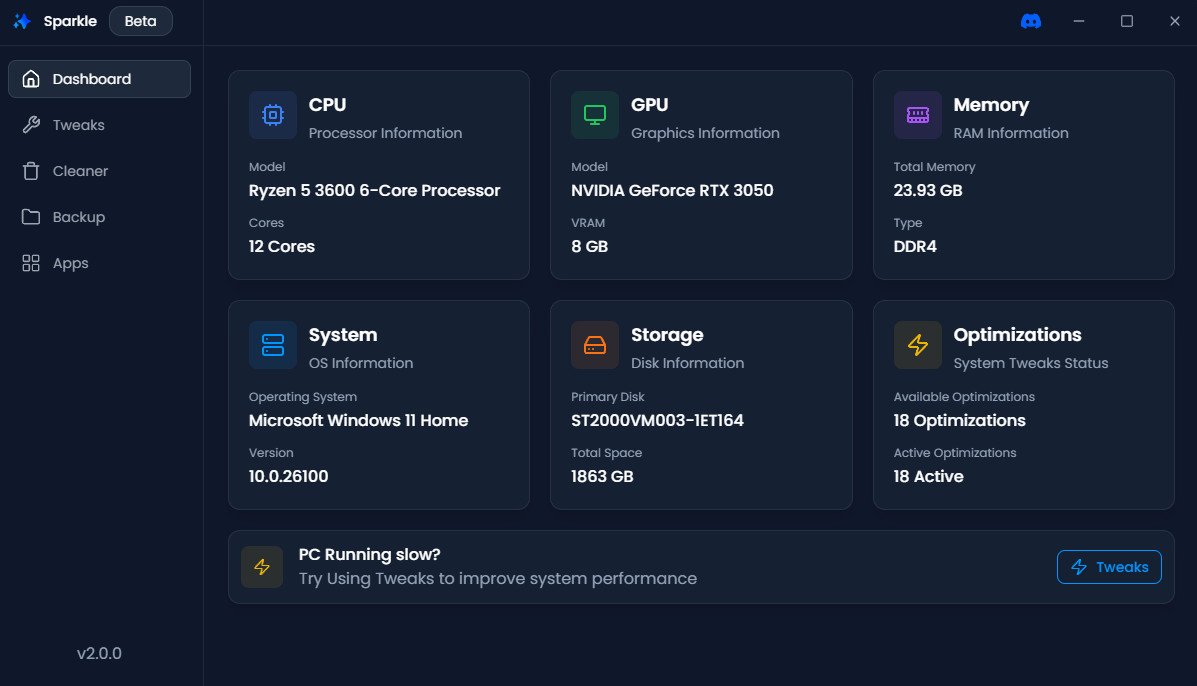
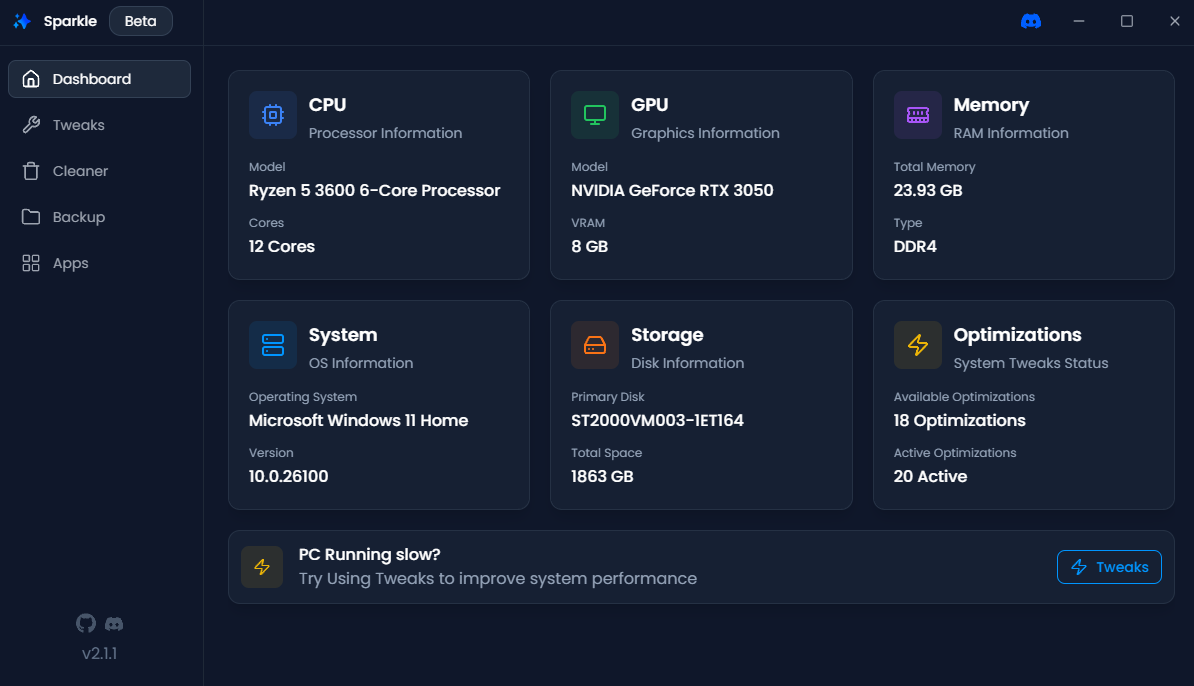
💄2.1.1
- Updated Card Styles
- Fixed Scrolling bug
- Changed nav icons color

diff --git a/src/renderer/src/pages/Tweaks.jsx b/src/renderer/src/pages/Tweaks.jsx
@@ -210,7 +210,7 @@ function Tweaks() {
           <div className="flex justify-end gap-3">
             <Button variant="ghost" onClick={() => setIsModalOpen(false)}>
               Cancel
-            </Button>{' '}
+            </Button>
             <Button
               onClick={async () => {
                 const index = tweaks.indexOf(selectedTweak)
@@ -265,7 +265,7 @@ function Tweaks() {
         </div>
       </Modal>
 
-      <div className="max-w-[1800px] mx-auto overflow-auto">
+      <div className="max-w-[1800px] mx-auto ">
         <div className="mb-4">
           <div className="space-y-4">
             <div className="flex items-center gap-3 bg-slate-800/50 border border-slate-700/50 rounded-xl px-4 backdrop-blur-sm">
@@ -304,64 +304,68 @@ function Tweaks() {
               return (
                 <div
                   key={originalIndex}
-                  className="group bg-slate-800/50 backdrop-blur-sm rounded-xl border border-slate-700/50 shadow-lg hover:shadow-xl hover:border-slate-600/50 transition-all duration-300 overflow-hidden"
+                  className="group bg-slate-800/50 backdrop-blur-sm rounded-xl border border-slate-700/50 shadow-lg hover:shadow-xl hover:border-slate-600/50 transition-all duration-300 overflow-hidde h-52 "
                 >
                   <div className="p-5 flex flex-col h-[260px]">
-                    {tweak.category && (
-                      <div className="flex items-center gap-2 mb-2 flex-wrap">
-                        {(Array.isArray(tweak.category) ? tweak.category : [tweak.category]).map(
-                          (cat) => (
-                            <Tooltip
-                              key={cat}
-                              content={`${cat} Optimization`}
-                              delay={0.3}
-                              side="right"
-                            >
-                              <div className="p-1.5 bg-slate-700/50 rounded-lg hover:bg-slate-700/80 transition-colors">
-                                {categoryIcons[cat] || categoryIcons['General']}
-                              </div>
-                            </Tooltip>
-                          )
-                        )}
-                      </div>
-                    )}
                     <div className="flex items-center justify-between mb-3">
-                      <div className="flex items-center gap-2 flex-col">
-                        <h2 className="font-semibold text-white text-base">{tweak.title}</h2>
-                      </div>
-
-                      {tweak.reversible == null || tweak.reversible == true ? (
-                        <label className="relative inline-flex items-center cursor-pointer flex-shrink-0">
-                          <input
-                            type="checkbox"
-                            className="sr-only peer"
-                            checked={toggleStates[tweak.name] || false}
-                            onChange={() => handleToggle(originalIndex)}
-                          />
-                          <div className="w-11 h-6 bg-slate-700 peer-focus:outline-none rounded-full peer peer-checked:after:translate-x-full peer-checked:after:border-white after:content-[''] after:absolute after:top-[2px] after:left-[2px] after:bg-white after:border-slate-600 after:border after:rounded-full after:h-5 after:w-5 after:transition-all peer-checked:bg-sparkle-primary"></div>
-                        </label>
-                      ) : (
-                        <div>
-                          <Button
-                            onClick={() => handleToggle(originalIndex)}
-                            disabled={toggleStates[tweak.name] || false}
-                          >
-                            {toggleStates[tweak.name] ? 'Applied' : 'Apply'}
-                          </Button>
+                      {tweak.category && (
+                        <div className="flex items-center gap-2 flex-wrap">
+                          <>
+                            {tweak.warning && (
+                              <Tooltip content={tweak.warning} delay={0.3} side="right">
+                                <div className="p-1.5 bg-red-900/50 rounded-lg hover:bg-red-900/80 transition-colors">
+                                  <AlertTriangle className="w-4 h-4 text-red-400" />
+                                </div>
+                              </Tooltip>
+                            )}
+                            {(Array.isArray(tweak.category)
+                              ? tweak.category
+                              : [tweak.category]
+                            ).map((cat) => (
+                              <Tooltip
+                                key={cat}
+                                content={`${cat} Optimization`}
+                                delay={0.3}
+                                side="right"
+                              >
+                                <div className="p-1.5 bg-slate-700/50 rounded-lg hover:bg-slate-700/80 transition-colors">
+                                  {categoryIcons[cat] || categoryIcons['General']}
+                                </div>
+                              </Tooltip>
+                            ))}
+                          </>
                         </div>
                       )}
+                      <div className="flex items-center m-0">
+                        {tweak.reversible == null || tweak.reversible == true ? (
+                          <label className="relative inline-flex items-center cursor-pointer flex-shrink-0">
+                            <input
+                              type="checkbox"
+                              className="sr-only peer"
+                              checked={toggleStates[tweak.name] || false}
+                              onChange={() => handleToggle(originalIndex)}
+                            />
+                            <div className="w-11 h-6 bg-slate-700 peer-focus:outline-none rounded-full peer peer-checked:after:translate-x-full peer-checked:after:border-white after:content-[''] after:absolute after:top-[2px] after:left-[2px] after:bg-white after:border-slate-600 after:border after:rounded-full after:h-5 after:w-5 after:transition-all peer-checked:bg-sparkle-primary"></div>
+                          </label>
+                        ) : (
+                          <div>
+                            <Button
+                              onClick={() => handleToggle(originalIndex)}
+                              disabled={toggleStates[tweak.name] || false}
+                            >
+                              {toggleStates[tweak.name] ? 'Applied' : 'Apply'}
+                            </Button>
+                          </div>
+                        )}
+                      </div>
+                    </div>
+                    <div className="flex items-start mb-3">
+                      <h2 className="font-semibold text-white text-base">{tweak.title}</h2>
                     </div>
                     <div className="flex flex-col flex-1 overflow-hidden">
                       <p className="text-slate-400 text-sm flex-1 overflow-y-auto custom-scrollbar pr-1">
                         {tweak.description}
                       </p>
-
-                      {tweak.warning && (
-                        <div className="mt-2 py-1.5 px-2 bg-red-950/30 border border-red-900/30 rounded text-red-400 text-xs flex items-center gap-1.5">
-                          <AlertTriangle size={12} />
-                          {tweak.warning}
-                        </div>
-                      )}
                     </div>
                   </div>
                 </div>

diff --git a/src/renderer/src/components/Nav.jsx b/src/renderer/src/components/Nav.jsx
@@ -71,13 +71,13 @@ function Nav() {
       )}
       <div className="flex items-center justify-center gap-2 mt-4 mb-2">
         <a href="https://github.com/parcoil/sparkle" target="_blank">
-          <GithubIcon className="w-5 fill-white" />
+          <GithubIcon className="w-5 fill-slate-600" />
         </a>
         <a href="https://discord.com/invite/En5YJYWj3Z" target="_blank">
-          <DiscordIcon className="w-5 fill-white" />
+          <DiscordIcon className="w-5 fill-slate-600" />
         </a>
       </div>
-      <p className="text-slate-400 text-center">v{info.version}</p>
+      <p className="text-slate-500 text-center">v{info.version}</p>
     </nav>
   )
 }

diff --git a/src/renderer/src/App.jsx b/src/renderer/src/App.jsx
@@ -17,7 +17,7 @@ function App() {
   const [loading, setLoading] = useState(true)
 
   return (
-    <div className="flex flex-col h-screen bg-slate-900 text-white ">
+    <div className="flex flex-col h-screen bg-slate-900 text-white overflow-hidden">
       <TitleBar />
       <div className="flex flex-1 pt-[50px] relative">
         <AnimatePresence>
@@ -40,7 +40,7 @@ function App() {
         <>
           <Nav />
 
-          <main className="flex-1 ml-52 p-6">
+          <main className="flex-1 ml-52 p-6 ">
             <AnimatePresence mode="wait">
               <motion.div
                 key={location.pathname}

diff --git a/src/renderer/src/pages/Home.jsx b/src/renderer/src/pages/Home.jsx
@@ -80,7 +80,7 @@ function Home() {
   return (
     <RootDiv>
       <div className="max-w-[1800px] mx-auto ">
-        <div className="grid grid-cols-1 sm:grid-cols-2 lg:grid-cols-3 gap-5">
+        <div className="grid grid-cols-1 sm:grid-cols-2 lg:grid-cols-3 gap-4">
           <div className="bg-slate-800/50 backdrop-blur-sm rounded-xl border border-slate-700/50 shadow-lg overflow-hidden p-5">
             <div className="flex items-start gap-3 mb-4">
               <div className="p-3 bg-blue-500/10 rounded-lg">

diff --git a/src/renderer/src/pages/Apps.jsx b/src/renderer/src/pages/Apps.jsx
@@ -64,7 +64,7 @@ function Apps() {
 
   return (
     <RootDiv>
-      <div className="flex items-center gap-3 bg-slate-800/50 border border-slate-700/50 rounded-xl px-4 backdrop-blur-sm ">
+      <div className="flex items-center gap-3 bg-slate-800/50 border border-slate-700/50 rounded-xl px-4 backdrop-blur-sm">
         <Search className="text-slate-400" />
         <input
           type="text"

diff --git a/src/renderer/src/components/RootDiv.jsx b/src/renderer/src/components/RootDiv.jsx
@@ -11,6 +11,7 @@ function RootDiv({ children, ...props }) {
         duration: 0.6,
         ease: [0.075, 0.82, 0.165, 1]
       }}
+      className="h-[calc(100vh-50px)] overflow-y-auto "
       {...props}
     >
       {children}
